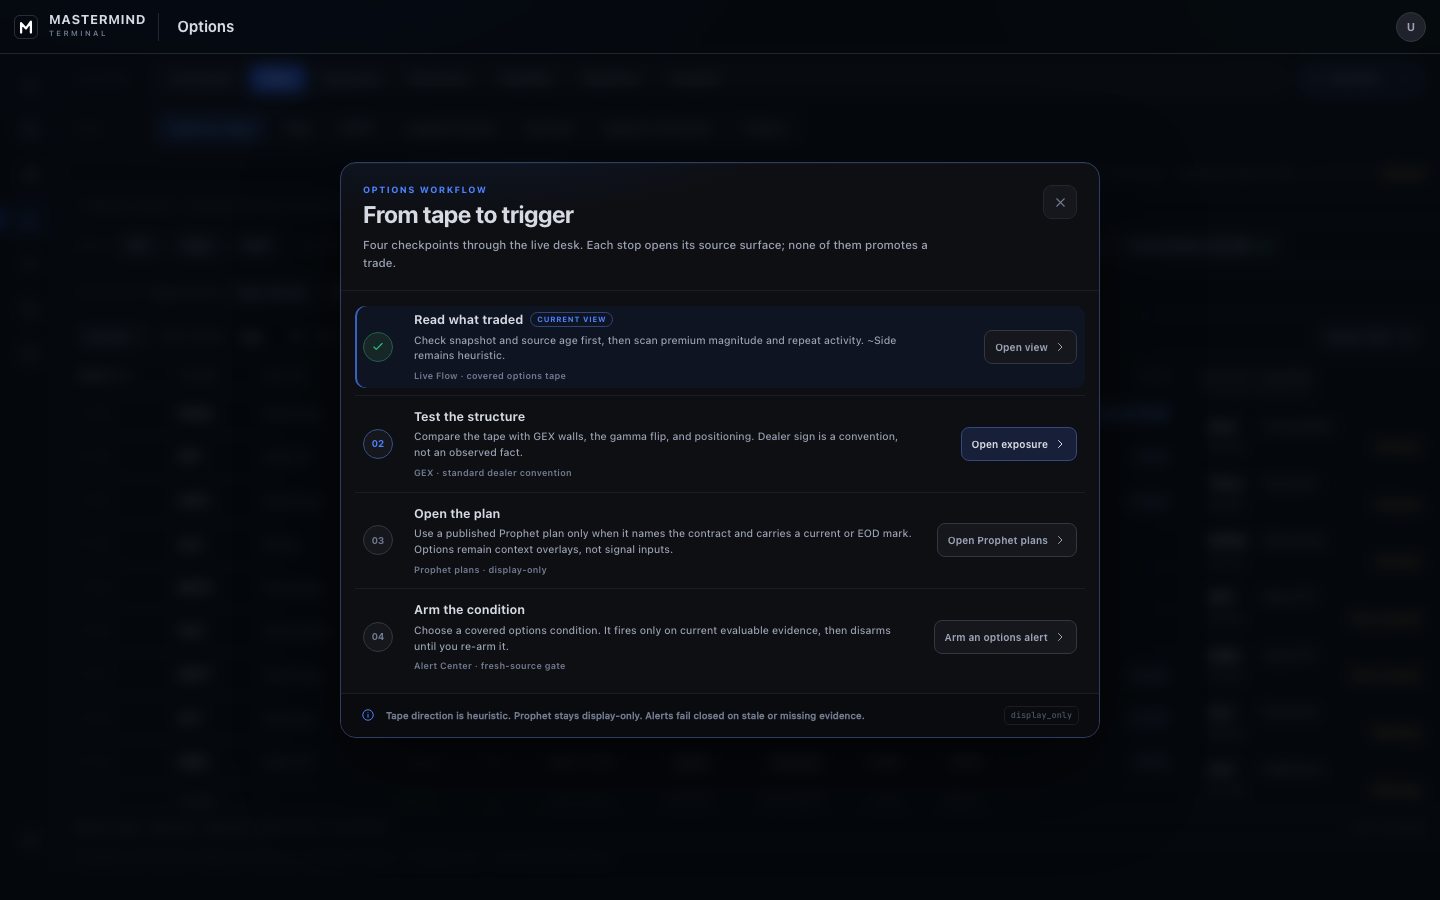
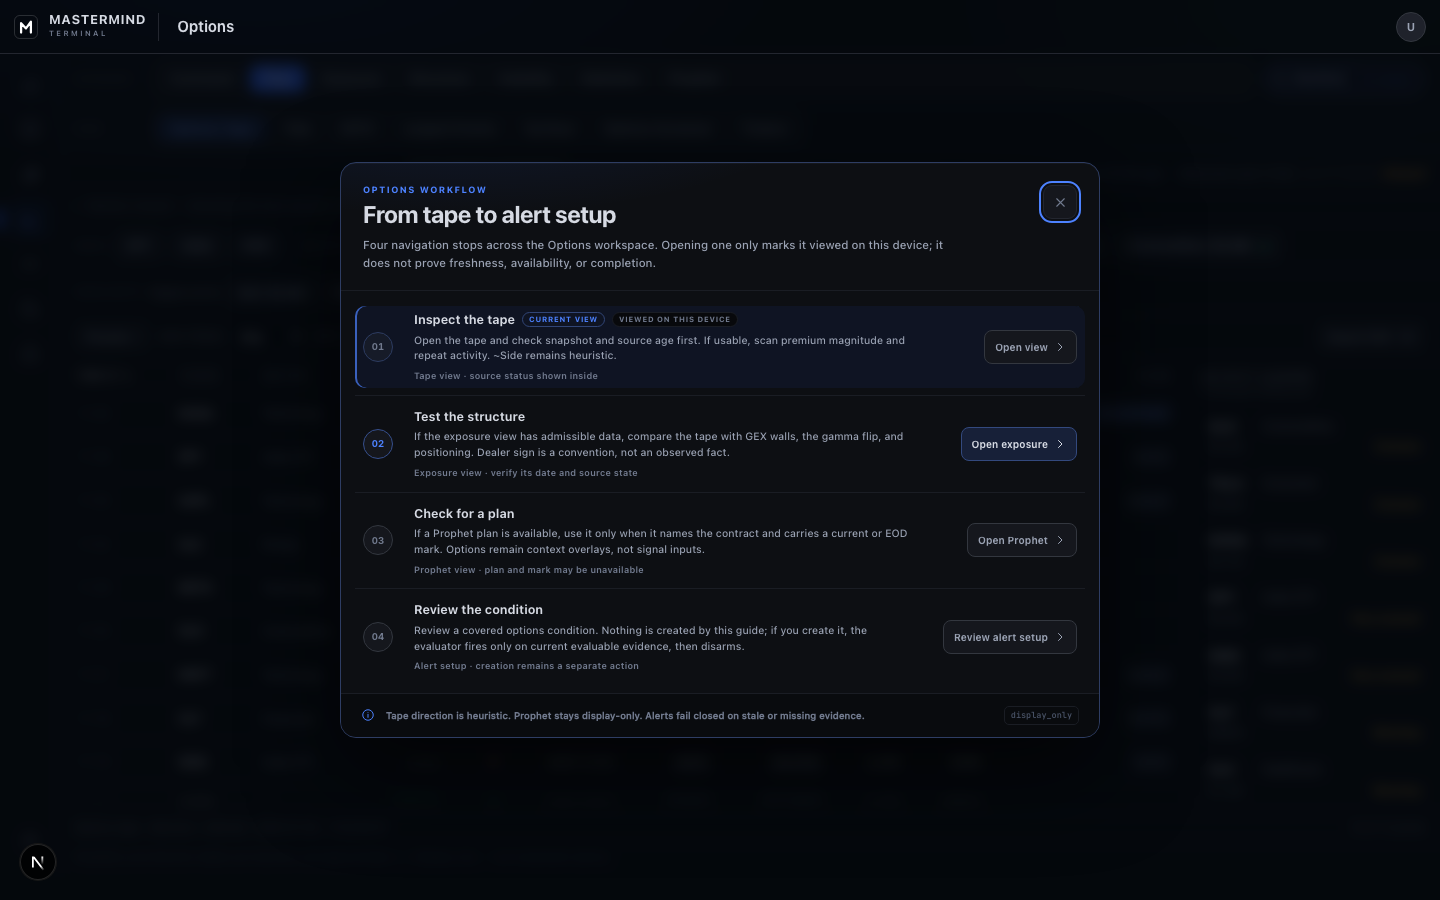
fix(options): keep workflow navigation honest

diff --git a/terminal/e2e/options-workflow-guide.spec.ts b/terminal/e2e/options-workflow-guide.spec.ts
@@ -15,7 +15,7 @@ test.beforeAll(() => {
   if (EVIDENCE) mkdirSync(EVIDENCE_DIR, { recursive: true });
 });
 
-test("the options workflow reaches live tape, structure, plan, and fresh-source alert", async ({ page }, testInfo) => {
+test("the options workflow navigates tape, structure, plan, and alert setup without claiming completion", async ({ page }, testInfo) => {
   test.setTimeout(90_000);
   const zh = testInfo.project.name === "tablet";
   const locale = zh ? "zh" : "en";
@@ -30,20 +30,30 @@ test("the options workflow reaches live tape, structure, plan, and fresh-source 
     document.documentElement.setAttribute("lang", lang === "zh" ? "zh-CN" : "en");
   }, locale);
   await page.route("**/data/manifest.json", (route) => route.fulfill({ json: MANIFEST }));
-  await page.route("**/api/alerts", (route) => route.fulfill({ json: { alerts: [] } }));
+  let alertPosts = 0;
+  await page.route("**/api/alerts", (route) => {
+    if (route.request().method() === "POST") alertPosts += 1;
+    return route.fulfill({ json: { alerts: [] } });
+  });
+
+  const progressText = (count: number) => zh ? `已查看 ${count}/4` : `${count}/4 viewed`;
 
   await page.goto("/options?tab=tape");
   const launcher = page.locator('[data-options-workflow-guide="launcher"]');
   await expect(launcher).toBeVisible({ timeout: 15_000 });
-  await expect(launcher.locator(".options-workflow-progress")).toHaveText("1/4");
+  await expect(launcher.locator(".options-workflow-progress")).toHaveText(progressText(1));
 
   await launcher.click();
   const dialog = page.locator('[data-options-workflow-guide="dialog"]');
   await expect(dialog).toBeVisible();
   await expect(dialog.locator('[data-options-workflow-stage]')).toHaveCount(4);
-  await expect(dialog).toContainText(zh ? "从盘口到提醒" : "From tape to trigger");
+  await expect(dialog).toContainText(zh ? "从盘口到提醒设置" : "From tape to alert setup");
+  await expect(dialog).toContainText(zh ? "本设备标记为已查看" : "marks it viewed on this device");
+  await expect(dialog).toContainText(zh ? "本流程不会自动创建提醒" : "Nothing is created by this guide");
   await expect(dialog).toContainText(zh ? "数据过期或缺失时" : "fail closed on stale or missing evidence");
-  await expect(dialog).not.toContainText(zh ? "From tape to trigger" : "从盘口到提醒");
+  await expect(dialog).not.toContainText(zh ? "From tape to alert setup" : "从盘口到提醒设置");
+  await expect(dialog).not.toContainText(zh ? "live desk" : "实时工作台");
+  await expect(dialog).not.toContainText(zh ? "Live Flow" : "实时资金流");
   const close = dialog.getByRole("button", { name: zh ? "关闭期权工作流程" : "Close options workflow" });
   await expect(close).toBeFocused();
   await page.keyboard.press("Escape");
@@ -72,22 +82,16 @@ test("the options workflow reaches live tape, structure, plan, and fresh-source 
   const guideShot = `${testInfo.project.name}-${locale}-workflow.png`;
   await page.screenshot({ path: testInfo.outputPath(guideShot), fullPage: false });
   if (EVIDENCE) await page.screenshot({ path: path.join(EVIDENCE_DIR, guideShot), fullPage: false });
-  if (EVIDENCE && testInfo.project.name === "desktop") {
-    await page.emulateMedia({ colorScheme: "light" });
-    await page.screenshot({ path: path.join(EVIDENCE_DIR, "desktop-en-workflow-light-emulation.png"), fullPage: false });
-    await page.emulateMedia({ colorScheme: "dark" });
-  }
-
   await dialog.locator('[data-options-workflow-stage="structure"] button').click();
   await expect(page).toHaveURL(/\/options\?tab=gex$/);
   await expect(page.locator("#wtab-gex")).toHaveAttribute("aria-selected", "true");
-  await expect(launcher.locator(".options-workflow-progress")).toHaveText("2/4");
+  await expect(launcher.locator(".options-workflow-progress")).toHaveText(progressText(2));
 
   await launcher.click();
   await dialog.locator('[data-options-workflow-stage="plan"] button').click();
   await expect(page).toHaveURL(/\/options\?tab=prophet$/);
   await expect(page.locator("#prophet-lane-macro")).toHaveAttribute("aria-selected", "true", { timeout: 15_000 });
-  await expect(launcher.locator(".options-workflow-progress")).toHaveText("3/4");
+  await expect(launcher.locator(".options-workflow-progress")).toHaveText(progressText(3));
 
   await launcher.click();
   await dialog.locator('[data-options-workflow-stage="alert"] button').click();
@@ -96,6 +100,7 @@ test("the options workflow reaches live tape, structure, plan, and fresh-source 
   await expect(page.locator('select:has(option[value="opt_gamma_flip"])')).toHaveValue("opt_gamma_flip");
   await expect(page.locator('.alert-form select:has(option[value="SPY"])')).toHaveValue("SPY");
   await expect(page.locator(".opt-preview-txt")).toContainText(zh ? "gamma 翻转位" : "gamma flip");
+  expect(alertPosts).toBe(0);
 
   const stored = await page.evaluate(() => JSON.parse(localStorage.getItem("mm.optionsWorkflow.v1") || "null"));
   expect(stored).toEqual({ version: 1, visited: ["tape", "structure", "plan", "alert"] });
@@ -106,5 +111,32 @@ test("the options workflow reaches live tape, structure, plan, and fresh-source 
 
   await page.goBack();
   await expect(page).toHaveURL(/\/options\?tab=prophet$/);
-  await expect(launcher.locator(".options-workflow-progress")).toHaveText("4/4");
+  await expect(launcher.locator(".options-workflow-progress")).toHaveText(progressText(4));
+});
+
+test("options query prefill rejects a non-canonical root and never leaks across categories", async ({ page }) => {
+  let alertPosts = 0;
+  await page.route("**/data/manifest.json", (route) => route.fulfill({ json: MANIFEST }));
+  await page.route("**/api/alerts", (route) => {
+    if (route.request().method() === "POST") alertPosts += 1;
+    return route.fulfill({ json: { alerts: [] } });
+  });
+
+  await page.goto("/alerts?cat=options&root=A_B&kind=opt_gamma_flip");
+  const category = page.locator(".alert-form > select").first();
+  await expect(category).toHaveValue("signal");
+  await expect(page).toHaveURL(/\/alerts$/);
+
+  await category.selectOption("options");
+  await expect(page.locator('.alert-form select:has(option[value="SPY"])')).toHaveValue("SPY");
+  await expect(page.locator('.alert-form option[value="A_B"]')).toHaveCount(0);
+  await expect(page.locator(".opt-preview-txt")).toContainText("SPY");
+  expect(alertPosts).toBe(0);
+
+  await page.goto("/alerts?cat=signal&root=QQQ&kind=opt_gamma_flip");
+  await expect(category).toHaveValue("signal");
+  await expect(page).toHaveURL(/\/alerts$/);
+  await category.selectOption("options");
+  await expect(page.locator('.alert-form select:has(option[value="SPY"])')).toHaveValue("SPY");
+  expect(alertPosts).toBe(0);
 });

diff --git a/terminal/lib/i18n.tsx b/terminal/lib/i18n.tsx
@@ -1072,47 +1072,49 @@ export const LEX: Record<string, [string, string]> = {
   ],
   optionsStatisticsGatePublisher: ["Publisher pending", "发布器待上线"],
   optionsStatisticsGateValues: ["No values shown", "当前不显示数值"],
-  // Options workflow — one guided path across the already-live truth surfaces.
+  // Options workflow — navigation across source surfaces, never a completion receipt.
   optionsWorkflowOpen: ["Workflow", "流程"],
   optionsWorkflowOpenAria: ["Open the four-step options workflow", "打开四步期权工作流程"],
   optionsWorkflowClose: ["Close options workflow", "关闭期权工作流程"],
   optionsWorkflowEyebrow: ["OPTIONS WORKFLOW", "期权工作流程"],
-  optionsWorkflowTitle: ["From tape to trigger", "从盘口到提醒"],
+  optionsWorkflowTitle: ["From tape to alert setup", "从盘口到提醒设置"],
   optionsWorkflowSubtitle: [
-    "Four checkpoints through the live desk. Each stop opens its source surface; none of them promotes a trade.",
-    "沿实时工作台完成四个检查点。每一步都打开对应的数据源页面；任何一步都不会把观察升级为交易建议。",
+    "Four navigation stops across the Options workspace. Opening one only marks it viewed on this device; it does not prove freshness, availability, or completion.",
+    "期权工作区内的四个导航入口。打开页面只会在本设备标记为已查看；不代表数据新鲜、可用或任务已完成。",
   ],
-  optionsWorkflowStepsAria: ["Options workflow checkpoints", "期权工作流程检查点"],
+  optionsWorkflowStepsAria: ["Options workflow navigation stops", "期权工作流程导航入口"],
   optionsWorkflowCurrent: ["CURRENT VIEW", "当前视图"],
+  optionsWorkflowViewedHere: ["VIEWED ON THIS DEVICE", "本设备已查看"],
+  optionsWorkflowViewedShort: ["viewed", "已查看"],
   optionsWorkflowReopenCta: ["Open view", "打开视图"],
-  optionsWorkflowTapeTitle: ["Read what traded", "先看实际成交"],
+  optionsWorkflowTapeTitle: ["Inspect the tape", "检查期权盘口"],
   optionsWorkflowTapeBody: [
-    "Check snapshot and source age first, then scan premium magnitude and repeat activity. ~Side remains heuristic.",
-    "先检查快照与源数据时间，再查看权利金规模和重复活动。~方向仍是启发式推断。",
+    "Open the tape and check snapshot and source age first. If usable, scan premium magnitude and repeat activity. ~Side remains heuristic.",
+    "打开盘口后先检查快照与源数据时间。数据可用时，再查看权利金规模和重复活动。~方向仍是启发式推断。",
   ],
-  optionsWorkflowTapeReceipt: ["Live Flow · covered options tape", "实时资金流 · 覆盖范围内的期权盘口"],
-  optionsWorkflowTapeCta: ["Open live tape", "打开实时盘口"],
+  optionsWorkflowTapeReceipt: ["Tape view · source status shown inside", "盘口视图 · 数据源状态以页面显示为准"],
+  optionsWorkflowTapeCta: ["Open tape", "打开盘口"],
   optionsWorkflowStructureTitle: ["Test the structure", "检验仓位结构"],
   optionsWorkflowStructureBody: [
-    "Compare the tape with GEX walls, the gamma flip, and positioning. Dealer sign is a convention, not an observed fact.",
-    "用 GEX 墙、伽马翻转位和持仓结构核对盘口。做市商符号是惯例假设，不是直接观测事实。",
+    "If the exposure view has admissible data, compare the tape with GEX walls, the gamma flip, and positioning. Dealer sign is a convention, not an observed fact.",
+    "敞口视图存在合格数据时，再用 GEX 墙、伽马翻转位和持仓结构核对盘口。做市商符号是惯例假设，不是直接观测事实。",
   ],
-  optionsWorkflowStructureReceipt: ["GEX · standard dealer convention", "GEX · 标准做市商惯例"],
+  optionsWorkflowStructureReceipt: ["Exposure view · verify its date and source state", "敞口视图 · 请核对日期与数据源状态"],
   optionsWorkflowStructureCta: ["Open exposure", "打开敞口"],
-  optionsWorkflowPlanTitle: ["Open the plan", "打开计划"],
+  optionsWorkflowPlanTitle: ["Check for a plan", "检查是否有计划"],
   optionsWorkflowPlanBody: [
-    "Use a published Prophet plan only when it names the contract and carries a current or EOD mark. Options remain context overlays, not signal inputs.",
-    "仅在已发布的 Prophet 计划明确合约并带有当前或收盘标记时使用。期权仍是背景叠加信息，不参与信号生成。",
+    "If a Prophet plan is available, use it only when it names the contract and carries a current or EOD mark. Options remain context overlays, not signal inputs.",
+    "如有 Prophet 计划，仅在其明确合约并带有当前或收盘标记时使用。期权仍是背景叠加信息，不参与信号生成。",
   ],
-  optionsWorkflowPlanReceipt: ["Prophet plans · display-only", "Prophet 计划 · 仅供展示"],
-  optionsWorkflowPlanCta: ["Open Prophet plans", "打开 Prophet 计划"],
-  optionsWorkflowAlertTitle: ["Arm the condition", "设置触发条件"],
+  optionsWorkflowPlanReceipt: ["Prophet view · plan and mark may be unavailable", "Prophet 视图 · 计划或标记可能不可用"],
+  optionsWorkflowPlanCta: ["Open Prophet", "打开 Prophet"],
+  optionsWorkflowAlertTitle: ["Review the condition", "检查触发条件"],
   optionsWorkflowAlertBody: [
-    "Choose a covered options condition. It fires only on current evaluable evidence, then disarms until you re-arm it.",
-    "选择覆盖范围内的期权条件。仅在当前证据可评估时触发，随后暂停，直至你重新启用。",
+    "Review a covered options condition. Nothing is created by this guide; if you create it, the evaluator fires only on current evaluable evidence, then disarms.",
+    "检查覆盖范围内的期权条件。本流程不会自动创建提醒；如由你创建，评估器只会在当前证据可评估时触发，随后暂停。",
   ],
-  optionsWorkflowAlertReceipt: ["Alert Center · fresh-source gate", "提醒中心 · 新鲜数据门槛"],
-  optionsWorkflowAlertCta: ["Arm an options alert", "设置期权提醒"],
+  optionsWorkflowAlertReceipt: ["Alert setup · creation remains a separate action", "提醒设置 · 创建仍需单独操作"],
+  optionsWorkflowAlertCta: ["Review alert setup", "检查提醒设置"],
   optionsWorkflowAuthority: [
     "Tape direction is heuristic. Prophet stays display-only. Alerts fail closed on stale or missing evidence.",
     "盘口方向为启发式推断。Prophet 保持仅供展示。数据过期或缺失时，提醒会拒绝触发。",

diff --git a/terminal/components/options/OptionsWorkflowGuide.tsx b/terminal/components/options/OptionsWorkflowGuide.tsx
@@ -13,7 +13,7 @@ interface WorkflowStage {
   id: StageId;
   titleKey: string;
   bodyKey: string;
-  receiptKey: string;
+  contextKey: string;
   ctaKey: string;
   view?: OptionsWorkspaceViewKey;
   href?: string;
@@ -29,7 +29,7 @@ const STAGES: readonly WorkflowStage[] = [
     id: "tape",
     titleKey: "optionsWorkflowTapeTitle",
     bodyKey: "optionsWorkflowTapeBody",
-    receiptKey: "optionsWorkflowTapeReceipt",
+    contextKey: "optionsWorkflowTapeReceipt",
     ctaKey: "optionsWorkflowTapeCta",
     view: "tape",
   },
@@ -37,7 +37,7 @@ const STAGES: readonly WorkflowStage[] = [
     id: "structure",
     titleKey: "optionsWorkflowStructureTitle",
     bodyKey: "optionsWorkflowStructureBody",
-    receiptKey: "optionsWorkflowStructureReceipt",
+    contextKey: "optionsWorkflowStructureReceipt",
     ctaKey: "optionsWorkflowStructureCta",
     view: "gex",
   },
@@ -45,7 +45,7 @@ const STAGES: readonly WorkflowStage[] = [
     id: "plan",
     titleKey: "optionsWorkflowPlanTitle",
     bodyKey: "optionsWorkflowPlanBody",
-    receiptKey: "optionsWorkflowPlanReceipt",
+    contextKey: "optionsWorkflowPlanReceipt",
     ctaKey: "optionsWorkflowPlanCta",
     view: "prophet",
   },
@@ -53,7 +53,7 @@ const STAGES: readonly WorkflowStage[] = [
     id: "alert",
     titleKey: "optionsWorkflowAlertTitle",
     bodyKey: "optionsWorkflowAlertBody",
-    receiptKey: "optionsWorkflowAlertReceipt",
+    contextKey: "optionsWorkflowAlertReceipt",
     ctaKey: "optionsWorkflowAlertCta",
     href: "/alerts?cat=options&root=SPY&kind=opt_gamma_flip",
   },
@@ -152,6 +152,9 @@ export default function OptionsWorkflowGuide({ activeView, onOpenView }: Options
     () => STAGES.find((stage) => !visited.includes(stage.id))?.id ?? null,
     [visited],
   );
+  const viewedProgress = lang === "zh"
+    ? `${t("optionsWorkflowViewedShort")} ${visited.length}/4`
+    : `${visited.length}/4 ${t("optionsWorkflowViewedShort")}`;
 
   const visit = (id: StageId) => {
     setVisited((current) => {
@@ -181,7 +184,7 @@ export default function OptionsWorkflowGuide({ activeView, onOpenView }: Options
         data-options-workflow-guide="launcher"
         aria-haspopup="dialog"
         aria-expanded={open}
-        aria-label={t("optionsWorkflowOpenAria")}
+        aria-label={`${t("optionsWorkflowOpenAria")} · ${viewedProgress}`}
         onClick={() => setOpen(true)}
       >
         <svg viewBox="0 0 24 24" aria-hidden="true">
@@ -189,7 +192,7 @@ export default function OptionsWorkflowGuide({ activeView, onOpenView }: Options
           <path d="m16 16 2 2 3-4" />
         </svg>
         <span className="options-workflow-launch-label">{t("optionsWorkflowOpen")}</span>
-        <span className="options-workflow-progress" aria-hidden="true">{visited.length}/4</span>
+        <span className="options-workflow-progress" aria-hidden="true">{viewedProgress}</span>
       </button>
 
       {open && (
@@ -226,27 +229,26 @@ export default function OptionsWorkflowGuide({ activeView, onOpenView }: Options
 
             <div className="options-workflow-rail" aria-label={t("optionsWorkflowStepsAria")}>
               {STAGES.map((stage, index) => {
-                const done = visited.includes(stage.id);
+                const viewed = visited.includes(stage.id);
                 const current = activeStage === stage.id;
                 const next = nextStage === stage.id;
                 return (
                   <article
                     key={stage.id}
-                    className={`options-workflow-step${done ? " is-visited" : ""}${current ? " is-current" : ""}${next ? " is-next" : ""}`}
+                    className={`options-workflow-step${viewed ? " is-viewed" : ""}${current ? " is-current" : ""}${next ? " is-next" : ""}`}
                     data-options-workflow-stage={stage.id}
                   >
                     <div className="options-workflow-step-index" aria-hidden="true">
-                      {done ? (
-                        <svg viewBox="0 0 24 24"><path d="m5 12 4 4L19 6" /></svg>
-                      ) : String(index + 1).padStart(2, "0")}
+                      {String(index + 1).padStart(2, "0")}
                     </div>
                     <div className="options-workflow-step-copy">
                       <div className="options-workflow-step-title">
                         <h3>{t(stage.titleKey)}</h3>
                         {current && <span>{t("optionsWorkflowCurrent")}</span>}
+                        {viewed && <span className="is-viewed-label">{t("optionsWorkflowViewedHere")}</span>}
                       </div>
                       <p>{t(stage.bodyKey)}</p>
-                      <small>{t(stage.receiptKey)}</small>
+                      <small>{t(stage.contextKey)}</small>
                     </div>
                     <button
                       type="button"

diff --git a/terminal/app/globals.css b/terminal/app/globals.css
@@ -2815,13 +2815,13 @@ body.col-resizing .wl-rz::after{background:var(--brand)}
   stroke-linejoin:round;
 }
 .options-workflow-progress{
-  min-width:29px;
+  min-width:64px;
   padding:4px 6px;
   border:1px solid var(--line-2);
   border-radius:var(--r-pill);
   background:var(--inset);
   color:var(--brand-2);
-  font:700 9.5px/1 var(--font-num);
+  font:700 9px/1 var(--font-ui);
   font-variant-numeric:tabular-nums;
 }
 .options-workflow-backdrop{
@@ -2945,19 +2945,10 @@ body.col-resizing .wl-rz::after{background:var(--brand)}
   border-color:color-mix(in srgb,var(--brand-2) 45%,var(--line));
   color:var(--brand-2);
 }
-.options-workflow-step.is-visited .options-workflow-step-index{
-  border-color:color-mix(in srgb,var(--up) 36%,var(--line));
-  background:color-mix(in srgb,var(--up) 9%,var(--panel-2));
-  color:var(--up);
-}
-.options-workflow-step-index svg{
-  width:14px;
-  height:14px;
-  fill:none;
-  stroke:currentColor;
-  stroke-width:2;
-  stroke-linecap:round;
-  stroke-linejoin:round;
+.options-workflow-step.is-viewed .options-workflow-step-index{
+  border-color:color-mix(in srgb,var(--brand-2) 24%,var(--line));
+  background:color-mix(in srgb,var(--brand) 5%,var(--panel-2));
+  color:var(--muted);
 }
 .options-workflow-step-copy{min-width:0}
 .options-workflow-step-title{display:flex;align-items:center;gap:7px;flex-wrap:wrap}
@@ -2973,6 +2964,11 @@ body.col-resizing .wl-rz::after{background:var(--brand)}
   color:var(--brand-2);
   font:720 7.5px/1 var(--font-ui);
   letter-spacing:.08em;
+}
+.options-workflow-step-title .is-viewed-label{
+  border-color:var(--line-2);
+  background:var(--inset);
+  color:var(--muted);
 }
 .options-workflow-step-copy p{
   max-width:500px;
@@ -3106,7 +3102,7 @@ body.col-resizing .wl-rz::after{background:var(--brand)}
   .options-ia-row .obs-pillnav-tab{padding:7px 11px}
   .options-workflow-launch{min-width:38px;padding:0 6px;gap:5px}
   .options-workflow-launch-label{display:none}
-  .options-workflow-progress{min-width:26px;padding-inline:5px}
+  .options-workflow-progress{min-width:58px;padding-inline:5px;font-size:8.5px}
   .options-workflow-backdrop{place-items:end center;padding:0}
   .options-workflow-dialog{
     width:100%;

diff --git a/terminal/components/AlertsView.tsx b/terminal/components/AlertsView.tsx
@@ -7,6 +7,7 @@ import {
   buildOptCondition,
   canonicalizeOptAlertIdentity,
   isMarketWideOptKind,
+  normalizeOptAlertRoot,
   type OptKind,
   type OptParams,
 } from "@/lib/optionsAlerts";
@@ -166,15 +167,25 @@ export default function AlertsView({ email }: { email: string }) {
       const sp = new URLSearchParams(window.location.search);
       const qSym = sp.get("sym"); const qPrice = sp.get("price"); const qType = sp.get("type");
       const qCat = sp.get("cat"); const qRoot = sp.get("root"); const qKind = sp.get("kind");
-      const normalizedRoot = qRoot?.trim().toUpperCase() ?? "";
+      const wantsOptionsPrefill = qCat === "options";
+      const normalizedRoot = qRoot === null ? "SPY" : normalizeOptAlertRoot(qRoot);
+      const normalizedKind = qKind && OPT_TYPES.some((c) => c.v === qKind) ? qKind as OptKind : null;
+      // Treat cat/root/kind as one contract. A malformed root or kind must not leak into the
+      // hidden options form while another category is visible, nor turn into a row the POST
+      // boundary later rejects. Missing root/kind use the form's canonical SPY/gamma defaults.
+      const validOptionsPrefill = wantsOptionsPrefill
+        && normalizedRoot !== null
+        && (qKind === null || normalizedKind !== null);
       queueMicrotask(() => {
         if (!alive) return;
         if (qSym) setSym(qSym);
         if (qType && COND_TYPES.some((c) => c.v === qType)) setCtype(qType);
         if (qPrice && parseFloat(qPrice) > 0) setVal(parseFloat(qPrice).toString());
-        if (qCat === "options") setCat("options");
-        if (/^[A-Z0-9._-]{1,16}$/.test(normalizedRoot)) setOptRoot(normalizedRoot);
-        if (qKind && OPT_TYPES.some((c) => c.v === qKind)) setOptKind(qKind as OptKind);
+        if (validOptionsPrefill) {
+          setCat("options");
+          setOptRoot(normalizedRoot);
+          if (normalizedKind) setOptKind(normalizedKind);
+        }
       });
       // strip the params so a reload doesn't re-prefill
       if (qSym || qPrice || qType || qCat || qRoot || qKind) {
